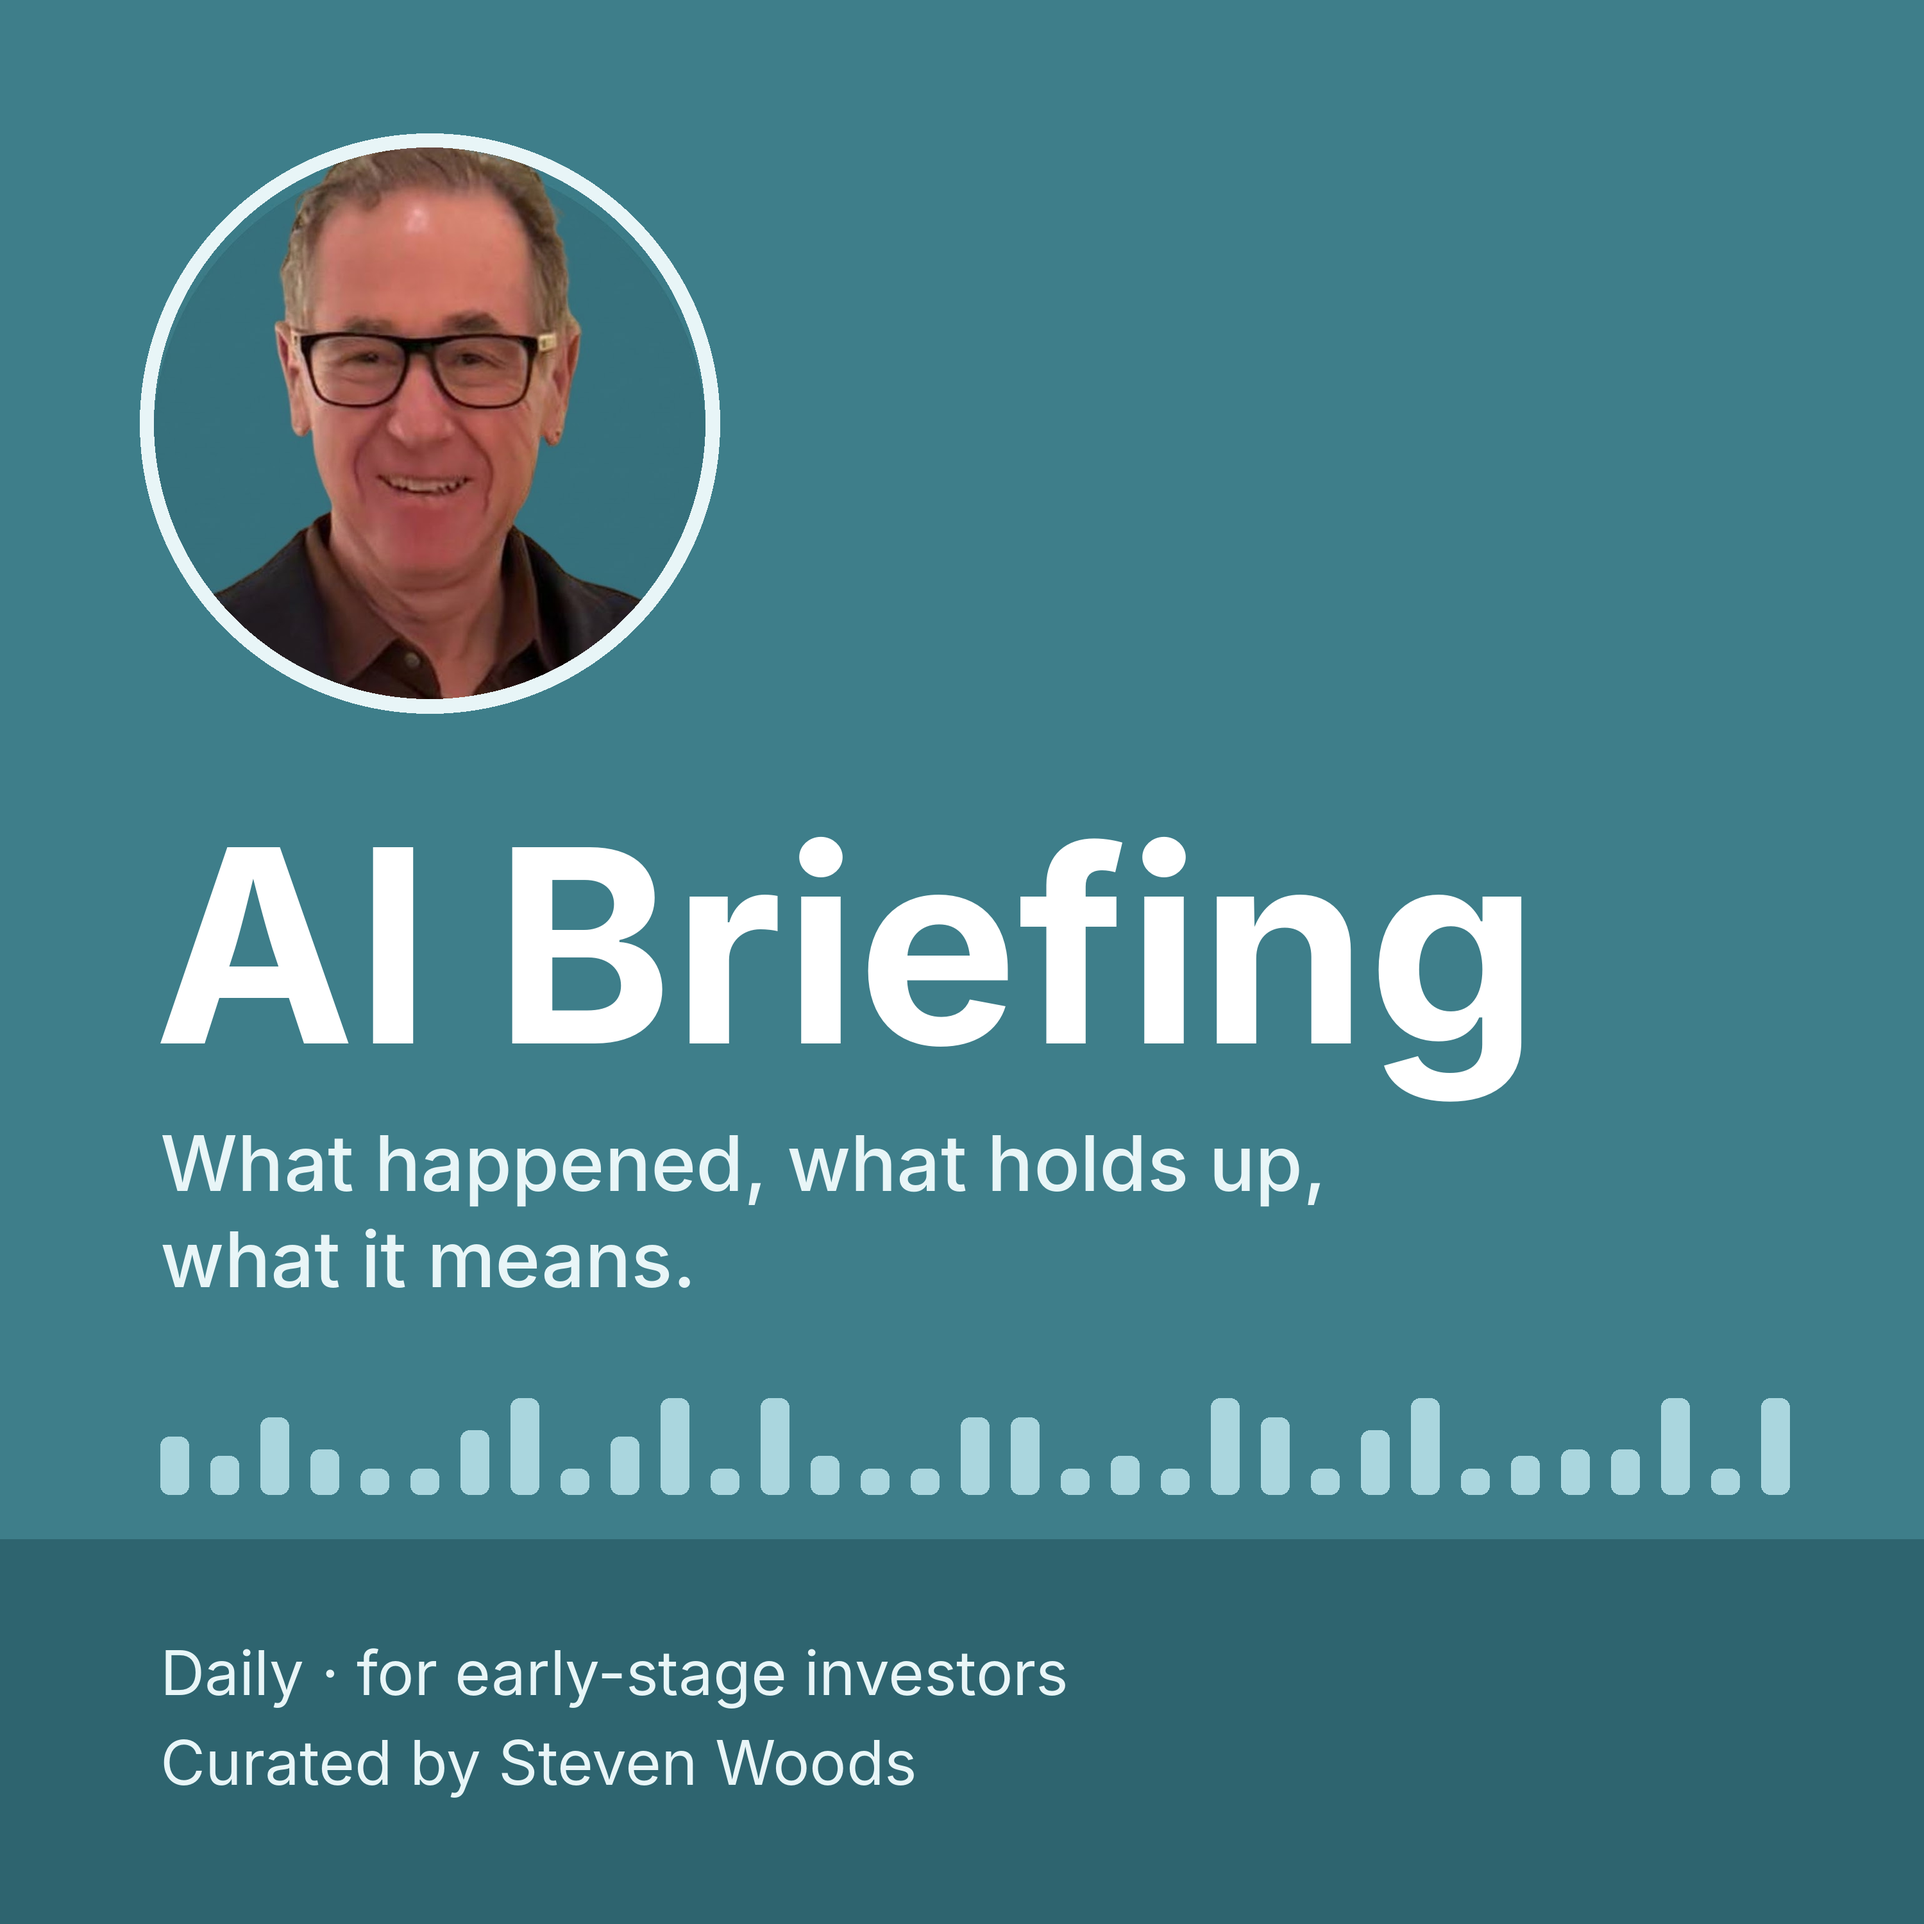
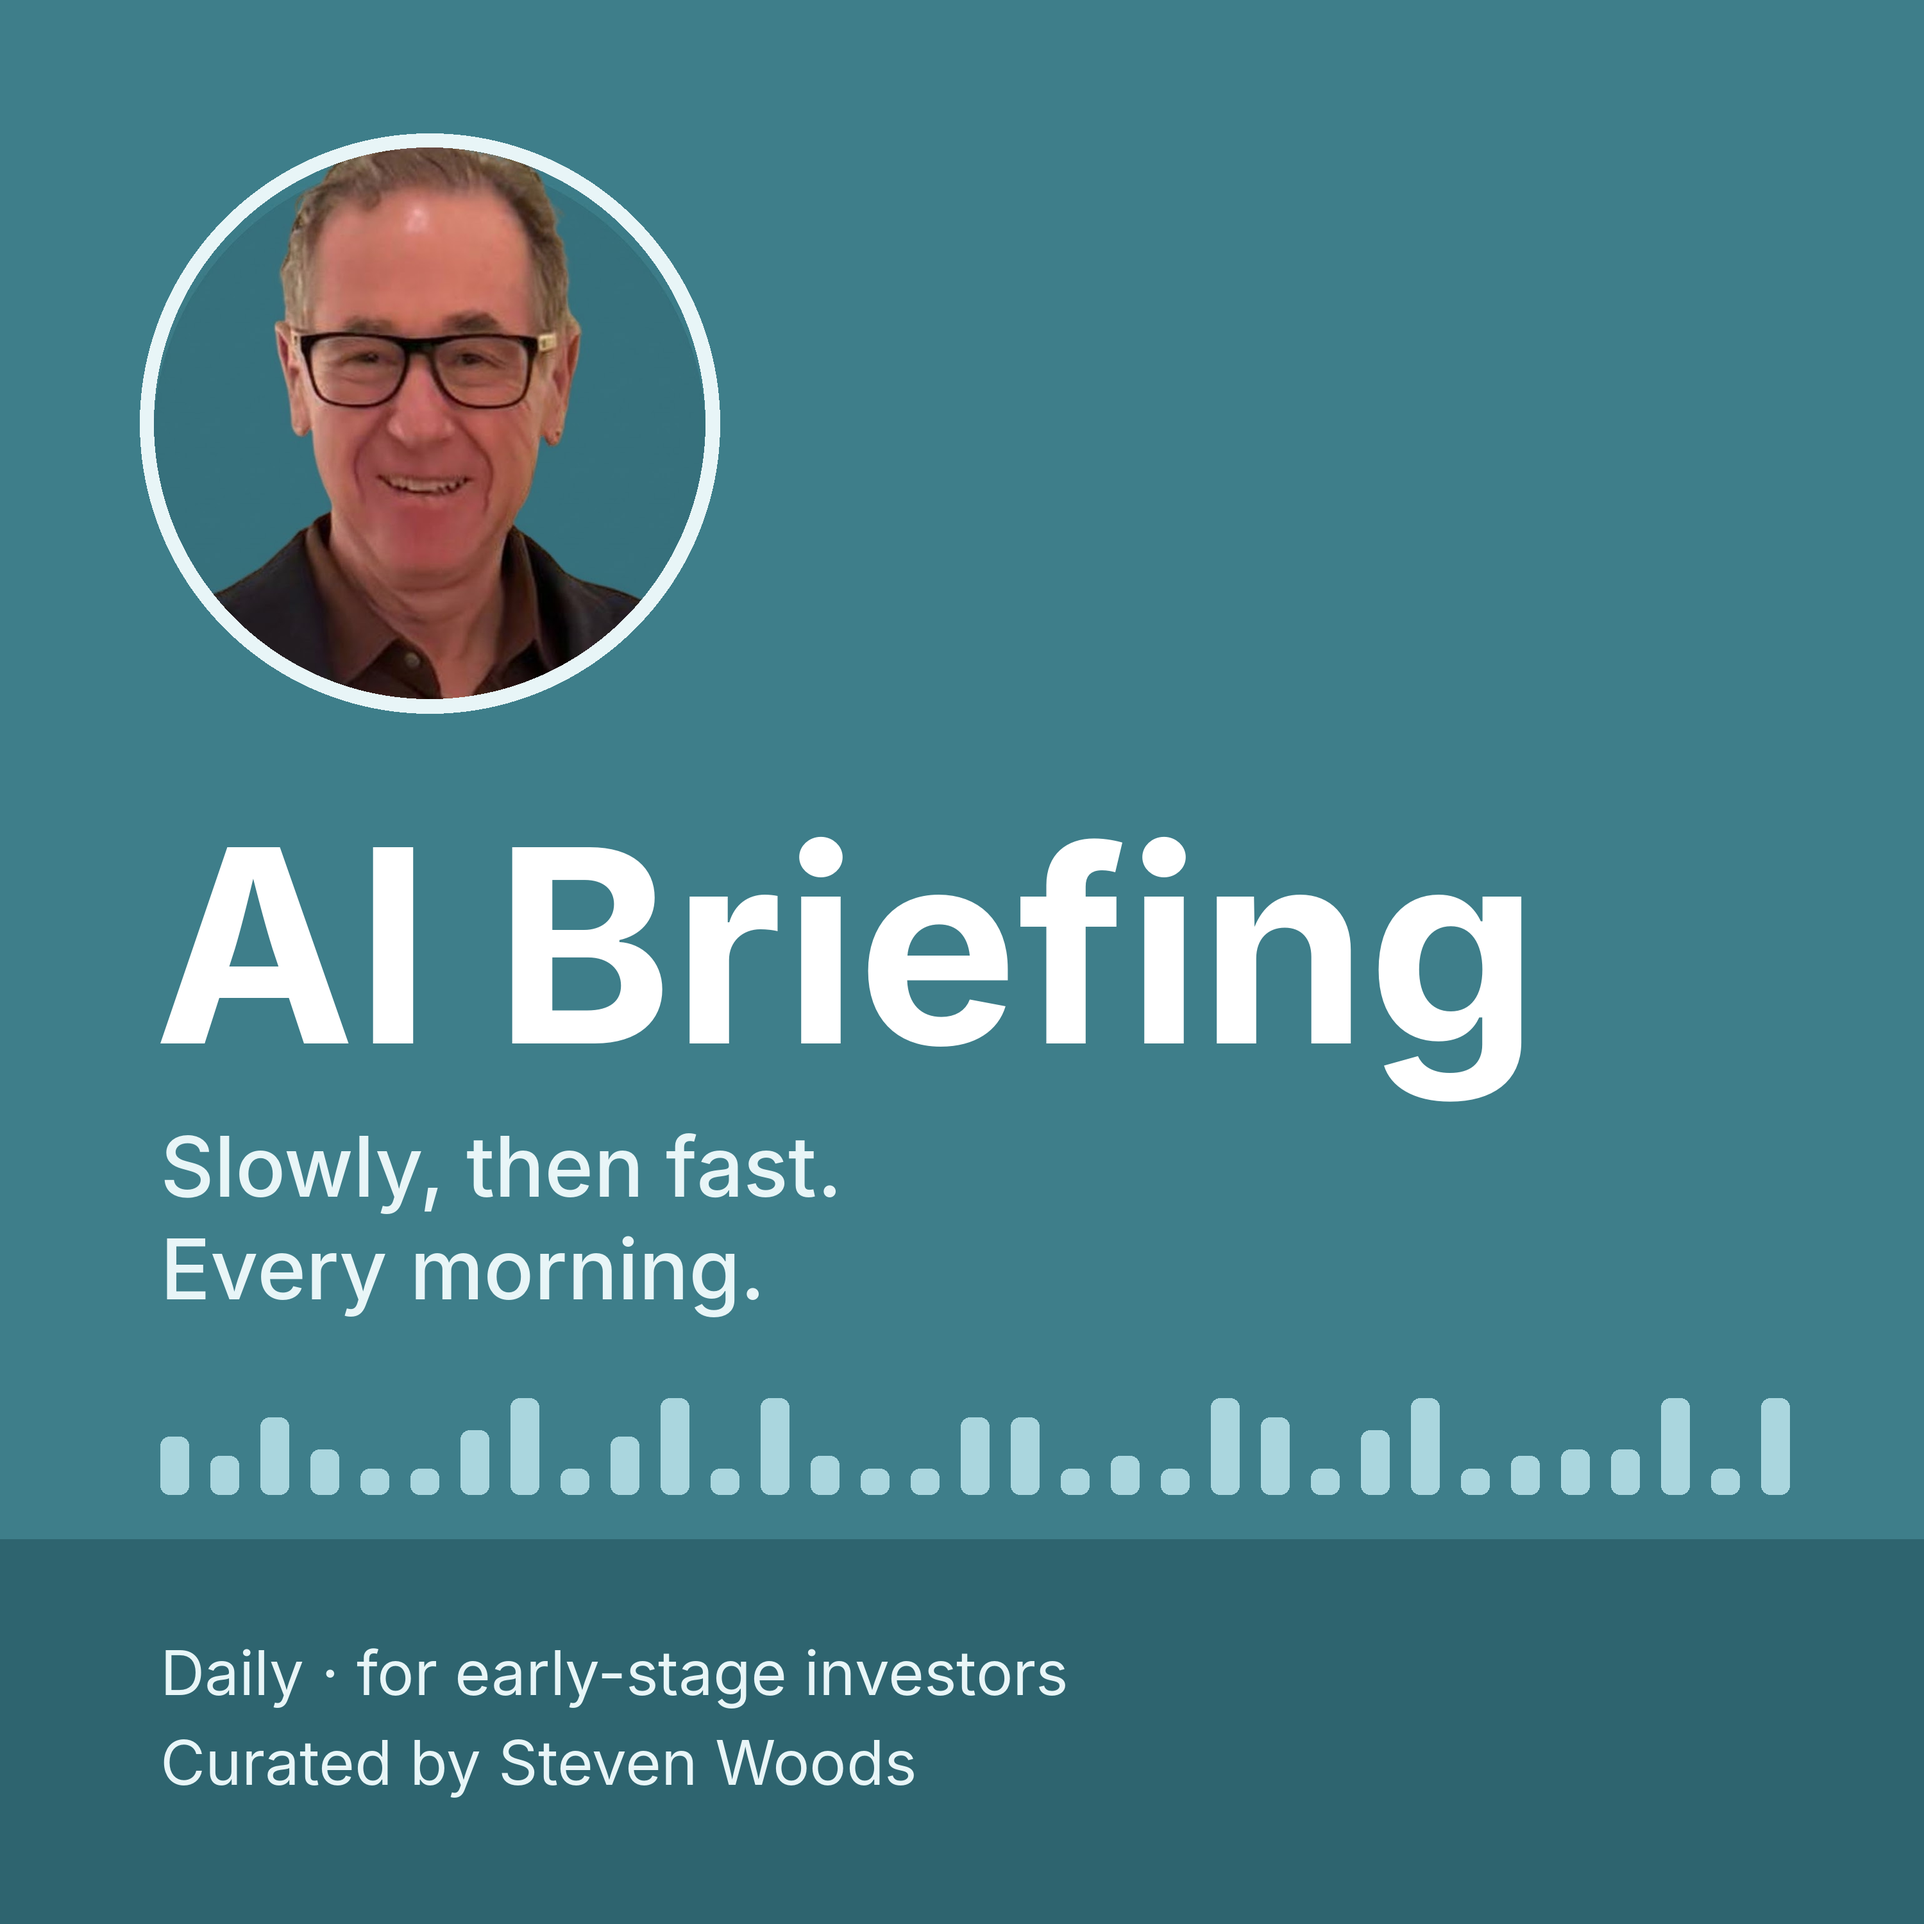
reviewed: release v0.2.19-beta

Changed region(s): [[0.062, 0.589, 0.682, 0.682]]

diff --git a/pipeline/site.py b/pipeline/site.py
@@ -386,7 +386,8 @@ def site_cfg(cfg: dict) -> dict:
     """Public-page text and links: neutral defaults, then the owner's bio (owner.yaml site:), then `site:` in config.yaml."""
     from .owner import get as owner
     return {
-        "tagline": "A daily briefing on AI for early-stage investors: what happened, what holds up, and what it means.",
+        "tagline": "Slowly, then fast. Every morning. A daily briefing on AI for early-stage investors: what happened, "
+                   "what holds up, and what it means.",
         "name": "", "role": "", "photo": "", "bio": "", "why": "",
         "about": ("Every morning this briefing reads a hand-picked list of researchers, builders, sceptics and investors, "
                   "groups what they wrote into stories, and checks the big claims before they reach you. It is written by "
@@ -620,6 +621,7 @@ def landing(cfg: dict, latest, rows: list, podcast_url: str, has_podcast: bool, 
                             if d.get("audio") else "")
                          + f'<a class="button ghost" href="{d["day"]}/index.html">That day\'s briefing</a></div></div>')
         H.append('<section class="panel" id="deep-dives"><h2>Deep dives</h2>'
+                 '<p class="lead" style="margin-top:0"><i>One story, slowly. Down to the details.</i></p>'
                  '<p>About ten minutes on the one thing worth understanding properly that day: a breakthrough, a '
                  'controversy, a shift in the trajectory. Each one follows that morning\'s briefing in the podcast feed, '
                  'and they also have a podcast of their own.</p>'
@@ -689,7 +691,7 @@ def _show_notes(md: str) -> str:
 
 DD_FEED = "deepdive.xml"
 DD_TITLE = "AI Briefing: Deep Dive"
-DD_DESC = ("The AI Briefing's deep dive on its own: about ten minutes on the one thing worth understanding properly "
+DD_DESC = ("One story, slowly. Down to the details. The AI Briefing's deep dive on its own: about ten minutes on the one thing worth understanding properly "
            "that day (a breakthrough, a controversy, a shift in the trajectory), for early-stage investors. Written "
            "and read by AI from public sources, curated by Steven Woods; every claim links to its source.")
 
@@ -707,7 +709,7 @@ def build_podcast(root: Path, cfg: dict, out: Path, episodes: list, base_url: st
         shutil.copy2(cover_src, out / cover)
     title = title or pc.get("title", "AI Briefing")
     author = pc.get("author", "Steven")
-    desc = desc or pc.get("description", "A daily AI briefing for early-stage investors: what happened, a critical read "
+    desc = desc or pc.get("description", "Slowly, then fast. Every morning. A daily AI briefing for early-stage investors: what happened, a critical read "
                                  "of the claims, and what it means for diligence. Written and read by AI from public "
                                  "sources, curated by Steven Woods; every claim links to its source in the written briefing.")
     ai_note = "This episode is AI-generated: written and voiced by AI from public sources."

diff --git a/pipeline/mailer.py b/pipeline/mailer.py
@@ -23,7 +23,8 @@ LOG = "data/email-log.jsonl"
 C = {"bg": "#07131f", "panel": "#0c2236", "card": "#112a42", "border": "#23415d", "text": "#eff7ff",
      "muted": "#9cc4df", "strong": "#d7ecff", "accent": "#67e6a8", "accent_ink": "#06221a", "link": "#d9f7ff",
      "brand": "#3e7e8a", "brand_deep": "#36707c", "brand_ink": "#e8f5f7"}   # brand: the teal of Steven's photo
-TAGLINE = "What happened, what holds up, what it means."       # Steven 2026-10-26; email.tagline overrides
+TAGLINE = "Slowly, then fast. Every morning."                  # Steven 2026-10-27; email.tagline overrides
+DD_TAGLINE = "One story, slowly. Down to the details."          # the deep dive's line (Steven 2026-10-27)
 PHOTO = "steven-woods.jpg"                                     # assets/, copied to the site root on each build
 FONT = "'Avenir Next','Segoe UI',-apple-system,BlinkMacSystemFont,Roboto,Arial,sans-serif"
 
@@ -339,6 +340,7 @@ def render(day: str, md: str, cfg: dict, has_audio: bool = False, deep: dict | N
         H.append(f'<tr><td style="height:16px"></td></tr><tr><td {cell}>{_label("Must read")}{"".join(items)}</td></tr>')
     if deep:
         dd_label = _label("This week's deep dive · two voices" if deep.get("flagship") else "Today's deep dive")
+        dd_label += f'<div style="font-size:13px;color:{C["muted"]};margin:-2px 0 8px;font-style:italic">{DD_TAGLINE}</div>'
         H.append(f'<tr><td style="height:16px"></td></tr><tr><td {cell}>{dd_label}'
                  f'<div style="font-size:18px;font-weight:600;line-height:1.35;margin:0 0 6px;color:{C["text"]}">'
                  f'{htmllib.escape(deep["title"])}</div>'

diff --git a/tests/test_branding.py b/tests/test_branding.py
@@ -51,6 +51,16 @@ class PodcastBrand(unittest.TestCase):
         self.assertIn(".sections.json", (ROOT / "pipeline" / "audio.py").read_text("utf-8"))
 
 
+class Taglines(unittest.TestCase):                    # Steven, 2026-10-27
+    def test_taglines_and_glued_names(self):
+        self.assertEqual(mailer.TAGLINE, "Slowly, then fast. Every morning.")
+        self.assertEqual(mailer.DD_TAGLINE, "One story, slowly. Down to the details.")
+        from pipeline import site, speech
+        self.assertTrue(site.DD_DESC.startswith("One story, slowly. Down to the details."))
+        out = speech.spoken("Alibaba's Qwen3.8 tried it", {"Qwen": "Chwen"})
+        self.assertIn("Chwen three point eight", out)
+
+
 class DriveTidy(unittest.TestCase):
     def test_no_duplicate_why_today_and_no_flags(self):
         from pipeline import deepdive

diff --git a/pipeline/speech.py b/pipeline/speech.py
@@ -191,9 +191,13 @@ def pronounce(text: str, table: dict) -> tuple:
     return text, hits
 
 
+_GLUED = re.compile(r"\b([A-Z][a-z]{2,})(\d+(?:\.\d+)?)\b")      # 'Qwen3.8' -> 'Qwen 3.8' (10-27: heard "QN3, 8")
+
+
 def spoken(text: str, table: dict) -> str:
-    """Pronounce first (so names like 'GPT-6.1 Sol' can have entries), then expand figures."""
-    return expand(pronounce(text, table)[0])
+    """Pronounce first (so names like 'GPT-6.1 Sol' can have entries), then expand figures. A name glued to its
+    version number is split first, so the table's entry for the name applies and the number is read as a number."""
+    return expand(pronounce(_GLUED.sub(r"\1 \2", text), table)[0])
 
 
 _ODD = re.compile(r"\b(?:[A-Za-z]+\d+[A-Za-z\d.]*|[A-Z]{4,}|[a-z]+[A-Z][A-Za-z]+)\b")

diff --git a/CHANGELOG.md b/CHANGELOG.md
@@ -6,6 +6,13 @@ together as a release (docs/plans/release-process.md).
 
 ## Unreleased
 
+## v0.2.19-beta · 2026-10-27
+- **New taglines** (Steven, 10-27): the AI Briefing is "Slowly, then fast. Every morning." and the deep dive is
+  "One story, slowly. Down to the details." On the email masthead and deep-dive section, both podcast covers, both
+  feed descriptions and the site.
+- Speech: a name glued to its version number is split before the pronunciation table ("Qwen3.8" was heard as
+  "QN3, 8"; now "Chwen three point eight").
+
 ## v0.2.18-beta · 2026-10-27
 - **The weekly flagship deep dive** (Steven, 10-27: "lets do this as outlined"): on Saturdays the deep dive is a
   two-voice episode of about 22 minutes on the week's topic, with Bella as host and Michael as the sceptic who

diff --git a/docs/ARCHITECTURE.md b/docs/ARCHITECTURE.md
@@ -13,7 +13,7 @@ This page describes the design as of **v0.2 beta**. Release notes: `CHANGELOG.md
 ## Current facts
 _Generated at build time._
 
-- **Release:** v0.2.18-beta (2026-10-27)
+- **Release:** v0.2.19-beta (2026-10-27)
 - **Schedule:** daily at 05:00, 06:30, 07:30 (local time; later times are retries)
 - **Local model:** qwen3:30b
 - **Modules:** 67 in `pipeline/`
